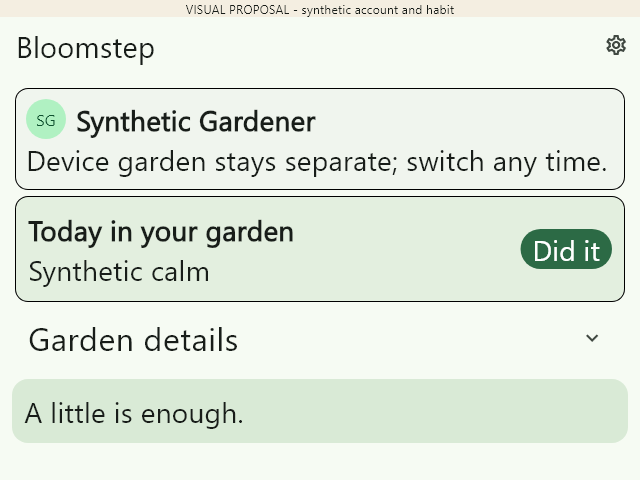
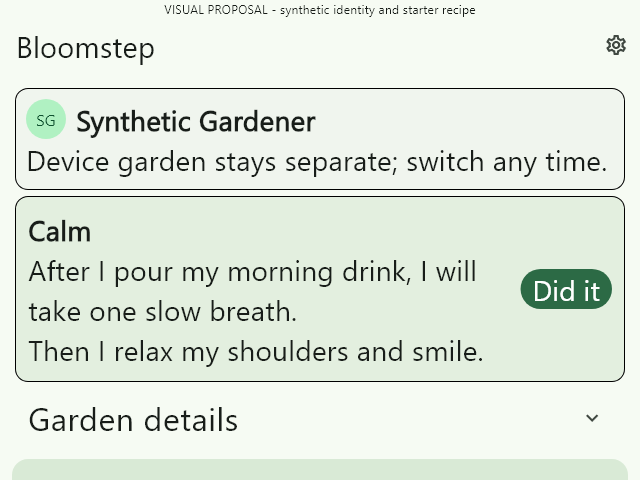
docs: revise owner copy and visual proposal packet
Copilot-Session: 964ad09d-7fce-4b66-a8fc-670c4493a195

diff --git a/docs/evidence/copy-review/proposed-copy.md b/docs/evidence/copy-review/proposed-copy.md
@@ -1,31 +1,73 @@
-# Proposed copy review: preview.15 visual and dialog updates
+# Bloomstep copy review proposal
 
-**Status: owner approval required. No production strings have been changed.**
+**Status: owner approval required. No production UI strings have changed.**
 
-This proposal is based on a source review of the garden, profile, copy, sign-out,
-deletion, and invitation paths. The suggestions use sentence case, short familiar
-words, action-first controls, and only material consequence or privacy context.
-The rendered proposal images use synthetic content and do not change application
-behavior.
+This proposal records an editorial review of the repository's customer-facing
+copy sources. It is a proposal only: the screenshots use synthetic data and do
+not create invitations, copy gardens, delete data, or change consent. The
+review covers the Flutter app and its notifications/tray, the public website
+and preview status page, and installer/native labels. User-authored habit text,
+provider-supplied names, and server-generated receipt values are data, not
+approved product copy; any raw exception or receipt value shown to a person is
+called out below.
 
-This packet covers the requested high-impact dialogs and the profile/garden
-continuity flow. It is not yet a repository-wide inventory of every existing
-user-facing string. The editorial gate applies project-wide; additional strings
-must be reviewed before any affected change is merged.
+The visual proposal uses the existing Calm starter recipe
+(`After I pour my morning drink, I will take one slow breath. Then I relax my
+shoulders and smile.`). “Did it” is rendered inside that same practice card,
+not beside an invented habit title. The invitation proposal uses the existing
+`PlantArt` and invitation controls. Screenshots show the control heading
+`A little growth, together`; the GrowthBook candidate `Share a small beginning`
+and its default-off configuration remain unchanged.
 
-| Surface | Current copy | Proposed copy | Reason / render |
+## Proposed before-and-after copy
+
+| Surface | Current copy | Proposed copy | Reason and proposal render |
 |---|---|---|---|
-| Delete recipe | Title: “Delete this recipe?” Body: “Removes only this recipe, its check-ins, reflections and linked event records. Deletion cannot be undone. Offline deletion is queued until sync; other devices apply it when they reconnect. A minimal ID-only marker prevents stale copies from returning.” Buttons: “Cancel” / “Delete recipe” | Title: “Delete recipe?” Body: “This also removes its check-ins and reflections.” Buttons: “Delete” / “Cancel” | Removes internal jargon and redundant explanation; keeps the non-obvious history deletion visible. `proposal-dialog-delete-recipe-420x820-200.png` |
-| Delete local data | Title: “Delete this local garden?” Body: “Export first if you want a copy. This cannot be undone. It does not delete your identity provider account.” Buttons: “Cancel” / “Delete local data” | Title: “Delete local garden?” Body: “This removes habits, check-ins, and reflections saved on this device—not your Microsoft or Google account.” Buttons: “Delete” / “Cancel” | Names the data and device boundary in one sentence; removes “identity provider” jargon. `proposal-dialog-delete-local-data-420x820-200.png` |
-| Copy device habits | Title: “Copy device habits to this account?” Body: “Copy your [count] device habit(s) and their check-ins and reflections to the account currently shown in your profile. These copies can sync to this account in the cloud. Local originals stay in the device garden. Account habits are not overwritten; repeated copies do not duplicate them. Feedback, settings, reminder choices and consent are not copied. The two gardens remain separate after copying.” Buttons: “Keep separate” / “Copy to this account” | Title: “Copy device habits to your account?” Body: “Only habits, check-ins, and reflections are copied. Copies can sync to your account; originals stay here and are not overwritten.” Buttons: “Copy” / “Not now” | Preserves explicit consent, cloud disclosure, local originals, and no-overwrite behavior in two short sentences. `proposal-dialog-copy-device-habits-420x820-200.png` |
-| Invite | Heading varies by the default-off experiment: “A little growth, together” / “Share a small beginning”. Body: “Invite a friend to start a tiny habit.” “No private habit text. Nobody is contacted automatically.” “Anyone with the link can open it.” Primary button: “Copy link”; other actions are under “More ways to invite”. | Title: “Invite a friend?” Body: “Anyone with the link can open it. You choose when to share. Bloomstep records link opens and the sharing method.” Keep “Copy link” and “More ways to invite”. | Makes the public-link and collection facts visible without suggesting delivery or automatic contact. Confirm separately whether the two experiment headings should remain; this proposal does not change experiment configuration. `proposal-dialog-invite-420x820-200.png` |
-| Account profile and garden notice | Signed-in name is rendered when supplied. Missing-name text: “Your sign-in provider did not supply a name.” Account notice: “Viewing your account garden. Your device garden is separate.” or “Viewing your account garden. Your [count] device habit(s) are safely kept separate on this device. Nothing is copied automatically.” Actions: “Copy device habits to this account” / “View device garden”. | Keep the authoritative name. If absent, show “Signed-in account” with a generic person icon and “Your account doesn’t include a name.” Compact summary: “Account garden” and “Device garden stays separate; switch any time.” Keep “View device garden” available in the expandable garden details and retain the explicit copy confirmation. | Uses no invented identity and keeps the device/account boundary visible while proposing a compact hierarchy. `proposal-account-420x820-200.png`, `proposal-account-640x480-200.png`, `proposal-account-desktop-1100x900.png`, `proposal-account-name-unavailable-420x820-200.png` |
-| Sign out | Title: “Sign out?” Body: “Unsynced account data will be removed from this device. Export it in Settings first if needed. Your separate device garden is unchanged.” Buttons: “Cancel” / “Sign out”. | Title: “Sign out?” Body: “Unsynced account data is removed from this device. Export it in Settings first if you need a copy. Your device garden stays here.” Buttons: “Sign out” / “Cancel”. | Keeps the material local-data consequence and export path; trims duplicate wording. `proposal-dialog-sign-out-420x820-200.png` |
-| Copy error | Current inline message includes the raw exception, then says no partial copy was saved, local originals are unchanged, and asks the user to retry “Copy device habits to this account”. | Title: “Couldn’t copy device habits” Body: “No changes were saved.” Buttons: “Try again” / “Close”. Keep diagnostic detail separate and optional if support needs it. | Replaces raw technical detail with status; the button names the next action. `proposal-dialog-copy-error-420x820-200.png` |
-| Sign-in / garden error | Current messages can include raw exception text, such as “Your account garden could not be opened: [exception]. Your device garden is unchanged.” | Title: “Couldn’t open your account garden” Body: “Your device garden is unchanged.” Buttons: “Try again” / “Close”. | Names the affected garden and preserves the data reassurance; the button names the next action. `proposal-dialog-sign-in-error-420x820-200.png` |
+| Delete recipe | Title: “Delete this recipe?” Body: “Removes only this recipe, its check-ins, reflections and linked event records. Deletion cannot be undone. Offline deletion is queued until sync; other devices apply it when they reconnect. A minimal ID-only marker prevents stale copies from returning.” Buttons: “Cancel” / “Delete recipe” | Title: “Delete recipe?” Body: “This also deletes its check-ins and reflections.” Buttons: “Delete” / “Cancel” | Names the non-obvious history loss; removes internal jargon and redundant explanation. `proposal-dialog-delete-recipe-420x820-200.png` |
+| Delete local data | Title: “Delete this local garden?” Body: “Export first if you want a copy. This cannot be undone. It does not delete your identity provider account.” Buttons: “Cancel” / “Delete local data” | Title: “Delete local data?” Body: “This deletes habits, check-ins, and reflections saved on this device—not your Microsoft or Google account.” Buttons: “Delete” / “Cancel” | States what is removed and the device/account boundary. `proposal-dialog-delete-local-data-420x820-200.png` |
+| Copy device habits | Title: “Copy device habits to this account?” Body: “Copy your [count] device habit(s) and their check-ins and reflections to the account currently shown in your profile. These copies can sync to this account in the cloud. Local originals stay in the device garden. Account habits are not overwritten; repeated copies do not duplicate them. Feedback, settings, reminder choices and consent are not copied. The two gardens remain separate after copying.” Buttons: “Keep separate” / “Copy to this account” | Title: “Copy to your account?” Body: “Device habits, check-ins, and reflections copy to your account and may sync. Originals stay on this device; existing account habits are unchanged.” Buttons: “Copy” / “Not now” | Clearly names copied data, possible cloud sync, local originals, and existing account behavior without suggesting an overwrite. `proposal-copy-account-420x820-200.png`, `proposal-copy-account-desktop.png` |
+| Invite | Heading is GrowthBook control “A little growth, together” or candidate “Share a small beginning.” Body: “Invite a friend to start a tiny habit.” “No private habit text. Nobody is contacted automatically.” “Anyone with the link can open it.” Controls: “Copy link,” “More ways to invite,” optional recipe, “Privacy and link details.” | Keep both experiment headings and their default-off configuration. Keep the garden illustration and all existing controls. Use: “Anyone with the link can open it. No one is contacted automatically.” In “More ways”: “Choose a recipient and send the email.” / “Your friend can scan the link.” / “Choose an app and where to share.” In recipe details: “Only a link is shared by default.” When selected: “Anyone with this link can see your approved recipe.” Keep “Choose and approve a recipe” as the selection action. Privacy details: “Optional analytics is off by default; when enabled, Bloomstep records invitation creation and the sharing method. Recipe cards show only the fields you approve—not your name, email, or practice history.” | Does not claim telemetry is always collected; the store only records events when product-event consent is on. Preserves the actual art, link action, progressive disclosures, optional recipe, and privacy details. `proposal-invite-desktop-ready.png`, `proposal-invite-large-ready.png`, `proposal-invite-desktop-more-ways.png`, `proposal-invite-large-more-ways.png`, `proposal-invite-large-recipe.png`, `proposal-invite-large-privacy.png` |
+| Account profile and garden notice | Missing-name text: “Your sign-in provider did not supply a name.” Account notice: “Viewing your account garden. Your device garden is separate.” or “Viewing your account garden. Your [count] device habit(s) are safely kept separate on this device. Nothing is copied automatically.” Actions: “Copy device habits to this account” / “View device garden” | Keep a supplied account name. If none is supplied, show “Signed-in account” and “Your account doesn’t include a name.” Keep the persistent notice “Device garden stays separate; switch any time.” Put “View device garden” and “Copy device habits to this account” in expandable garden details. Keep the copy confirmation explicit. | Does not invent a provider display name; keeps the garden boundary and both actions while making practice primary. `proposal-account-420x820-200.png`, `proposal-account-640x480-200.png`, `proposal-account-desktop-1100x900.png`, `proposal-account-name-unavailable-420x820-200.png`, `proposal-account-420x820-200-details.png`, `proposal-account-420x820-200-details-visible.png` |
+| Sign out | Title: “Sign out?” Body: “Unsynced account data will be removed from this device. Export it in Settings first if needed. Your separate device garden is unchanged.” Buttons: “Cancel” / “Sign out” | Title: “Sign out?” Body: “Unsynced account data is removed from this device; your separate device garden stays here. Export it first if you need a copy.” Buttons: “Sign out” / “Cancel” | Keeps both data boundaries and the export option in two short sentences. `proposal-dialog-sign-out-420x820-200.png` |
+| Copy error | Current failure text can include a raw exception, followed by a statement that no partial copy was saved and local originals are unchanged. | Title: “Couldn’t copy device habits” Body: “No changes were saved.” Buttons: “Try again” / “Close”. Keep technical diagnostics out of the main message. | Says what happened and what to do without exposing an exception. This exact wording applies only when the copy operation confirms that nothing was saved. `proposal-dialog-copy-error-420x820-200.png` |
+| Account garden error | Current status can include “Your account garden could not be opened: [exception]. Your device garden is unchanged.” | Title: “Couldn’t open your account garden” Body: “Your device garden is unchanged.” Buttons: “Try again” / “Close”. | Reassures the person about the unaffected garden; removes raw exception text. `proposal-dialog-sign-in-error-420x820-200.png` |
+| Other app errors | Examples include “Your garden could not be read: $e”, “Sync needs attention: $e”, “Your return could not be recorded: $e”, “Rating invitation could not be saved: $e”, and “Sign-out cleanup did not complete: $e”. | Replace each user-visible exception interpolation with a short, action-specific message, such as “Couldn’t open your garden. Try again.”, “Couldn’t sync your garden. Your saved garden is still on this device.”, or “Couldn’t finish sign-out. Saved sign-in may remain on this device; clear it before sharing this device.” Keep diagnostics in an optional support path, not in the main message. | The exact safe message must follow the operation's known save/cleanup state; do not use “Nothing was saved” unless verified. These error states remain proposals, not implementation. |
 
-All screenshots are labeled proposals, rendered at 200% text on a 420x820
-synthetic fixture except the three profile layouts, which cover 420x820 at 200%,
-640x480 at 200%, 1100x900 desktop, and the missing-name state. They are not
-installed-app evidence. Source text and behavior must not change until the owner
-approves the proposal packet.
+## Full user-facing source inventory
+
+The following source inventory covers the static labels, templates, semantics,
+notifications, and status/error copy reviewed. “Retain” means no copy change is
+proposed in this packet; it does not authorize implementation of the proposed
+changes above.
+
+| Surface and source | Current copy inventory and editorial disposition |
+|---|---|
+| App shell, `lib/main.dart`, `lib/app/bloomstep_app.dart`, `lib/app/session_boundary.dart` | App name “Bloomstep”; sign-in, sign-out, garden-return and clear-saved-sign-in states; copy-device confirmation; offline-session expiry; “Please sign in again. Your offline session has ended. Your saved garden was not deleted.” Keep the app name and accurate session boundaries. Replace exception interpolation in visible errors with the proposed safe summaries. |
+| Garden welcome and empty state, `lib/features/garden/garden_canopy.dart`, `lib/features/garden/garden_screen.dart` | “Your plants keep their growth. Rest days and returning both belong here.”; “Your garden is ready to grow”; “Choose one tiny behavior, give it an anchor, and practice your celebration.”; GrowthBook control “A little is enough.” / candidate “One tiny step is enough.”; return snackbar “Returning is a win; your garden kept its growth.” Keep the gentle, no-streak message and the default-off experiment unchanged. |
+| Practice cards and check-ins, `lib/features/garden/garden_screen.dart`, `lib/services/desktop_reminders.dart` | Dynamic aspiration, recipe, celebration, plant species/stage and practice count; actions “Did it,” “Did more,” “Not today,” and “Undo today”; “Resting today. Growth stays.”; “Today is recorded. You can change it.”; “Resume gentle reminders”; “Weekly reflection / Recipe Doctor”; “Check naturalness”; reminder actions “Later (no repeat today),” “Fewer like this,” and “Turn off.” Keep the main check-in action verb-first and tied to the full recipe. “Recipe Doctor” and “naturalness” are Bloomstep-specific terms; do not expand them into a dialog body without an approved explanatory design. |
+| Habit creation and edit, `lib/features/garden/recipe_builder.dart` | “Plant one tiny step”; “Pick your anchor,” “Pick one tiny action,” “Pick your celebration”; “After I…,” “I will…,” “Then I celebrate by…”; “Start with less than 30 seconds”; starter choices; “Make it my own (optional)”; “I practiced my celebration”; “Cancel,” “Back,” “Plant this seed,” “Save recipe”; validation and “Your seed is planted” content. The actual Calm starter recipe is used in the layout render. Retain recipe fields and progress cues; proposal approval is needed before altering copy. |
+| Reflection and feedback, `lib/features/garden/garden_screen.dart` | “How natural does this feel?” and the four self-reflection prompts; the note that the questions are not a validated clinical instrument; 14-day / graduation criteria; “A minute for your recipe,” weekly reflection questions, and the Recipe Doctor explanation; “Help us grow,” feedback type, “Your feedback,” “Save feedback,” “My feedback,” rating prompt, and delete-feedback action. Safety and measurement disclosures remain intact in this packet; remove raw exceptions from any visible failure. |
+| Profile and continuity, `lib/features/garden/profile_section.dart`, `lib/app/bloomstep_app.dart` | “Signed-in account,” “Your sign-in provider did not supply a name,” “Account sign-in is not configured in this build,” “Sign in with Microsoft or Google,” “Complete sign-in in your browser,” “Return to account garden,” “Copy device habits to this account,” and “View device garden,” plus dynamic copy/switch notices. Proposed fallback and compact notice are above; no provider name is fabricated. |
+| Invitation flow, `lib/features/garden/invitation_dialog.dart`, `lib/features/garden/garden_screen.dart` | “Invite a friend to start a tiny habit”; “Copy link”; “More ways to invite”; “Email invite”; “Show QR”; “Windows share”; optional recipe and “Choose and approve a recipe card”; “Remove recipe card”; “Privacy and link details”; “Close”; pending invite accept/decline and shared-recipe review. Keep the exact recipe-field approval step and default-off GrowthBook treatment. The invitation proposal preserves these controls and the existing `PlantArt`. |
+| Personal settings, privacy, and reminders, `lib/features/garden/garden_screen.dart` | “Your garden, your choices”; reduced motion; “Share product event counts” and its off-by-default disclosure; “What these counts include”; “Gentle reminders”; “Gentle Windows reminders”; “Personalized reminder timing”; check-in time, quiet hours, one-hour pause, and launch-at-sign-in controls; export, update, local deletion, account deletion, and the safety/age/health notice. Keep factual consent, deletion, retention, and safety details together. No consent default, setting, or retention claim changes in this proposal. |
+| Optional measurement, `lib/features/garden/measurement_controls.dart`, `lib/features/garden/reminder_observation_controls.dart`, `lib/features/garden/analytics_sandbox_controls.dart` | Receipt linking/clearing, account event consent, separate reminder-observation consent, test-only Aptabase/Sentry labels, and their receipt/retention/status messages. These controls are consent- and environment-specific; retain their factual disclosure and defaults in this packet. Do not describe them as ordinary customer analytics or imply a successful upload when the status says queued or pending. |
+| Garden sync, invitation status, and update errors, `lib/features/garden/garden_screen.dart`, `lib/services/update_service.dart`, `lib/services/invitation_service.dart` | “Syncing…,” “Saved on this device and synced,” configuration fallback/expiry notices, invitation unavailable/expired and cached-receipt states, “Published releases,” update-check status, preview/unsigned warning, “You choose whether to open the release page,” and “Open release page.” Keep safety warnings and distinguish cached/server facts; replace exception interpolation in the primary message. |
+| Windows notifications and tray, `lib/services/desktop_reminders.dart`, `lib/services/windows_toast_history.dart`, `windows/runner/toast_history.cpp` | Reminder titles/bodies; “Your garden kept its growth”; tray actions “Open your garden,” “Did it: [habit],” “Quiet for one hour (unsent reminders),” “Fewer reminders,” “Turn reminders off,” and “Exit Bloomstep”; notification-permission error/status strings. Preserve opt-in and delivery limits; no warning suppression or permission change is proposed. |
+| Native app and installer, `windows/runner/Runner.rc`, `windows/runner/toast_history.cpp`, `packaging/bloomstep.iss` | Product/file name “Bloomstep”; installer custom text “Choose where Bloomstep will grow,” “To continue, select Next. To choose a different folder, select Browse,” and “Launch Bloomstep.” Stock Inno Setup wizard text is platform-provided. This packet does not change installer behavior or claim install/launch verification. |
+| Public website and preview status, `site/index.html`, `site/releases/index.html`, `site/operator-callback.html` | Hero and product explanation; designated-tester and unsigned-preview notices; install guidance; download labels, sizes, hashes; privacy, retention, recovery, support/contact and age/health disclosures. Retain the approved support address, designated-tester restriction, current preview status and privacy/retention facts. The site stays on preview.14; no link, checksum, or deployment change is part of this proposal. |
+| Internal-only operator UI, `site/console.html` | Deployment/status and support operations. It is not customer app copy and is not proposed for editing here; keep it out of customer-facing surfaces. |
+
+## Render evidence
+
+All PNGs under `docs/evidence/visual-quality/proposals/` are synthetic
+proposals, not screenshots from an installed build. Profile renders cover
+420x820 at 200%, 640x480 at 200%, desktop, missing provider-name fallback,
+and expanded garden details. Invitation renders show the existing illustration
+and controls at desktop and 200%, including the expanded invite methods, recipe,
+and privacy states. The practice card uses the real Calm starter recipe; its
+“Did it” control is in the same card and is checked as a semantic button in the
+render test.
+
+No UI/copy implementation, PR merge, release, or site promotion is authorized by
+this packet. Approve or request revisions to these exact proposals before code
+is written.

diff --git a/docs/copy-guide.md b/docs/copy-guide.md
@@ -13,7 +13,7 @@ the owner has approved a rendered proposal.
 - Use standard Windows and Microsoft product terms unless Bloomstep has a
   user-tested term with a clear reason to keep it.
 - Confirmation titles ask a concise question that names the action, such as
-  `Delete recipe?` or `Copy device habits to your account?`.
+  `Delete recipe?` or `Copy to your account?`.
 - Buttons start with the action verb from the title. Use `Delete` / `Cancel`,
   `Copy` / `Not now`, or another explicit action and safe exit. Avoid vague
   `OK`, `Yes`, and `No` when the action can be named.
